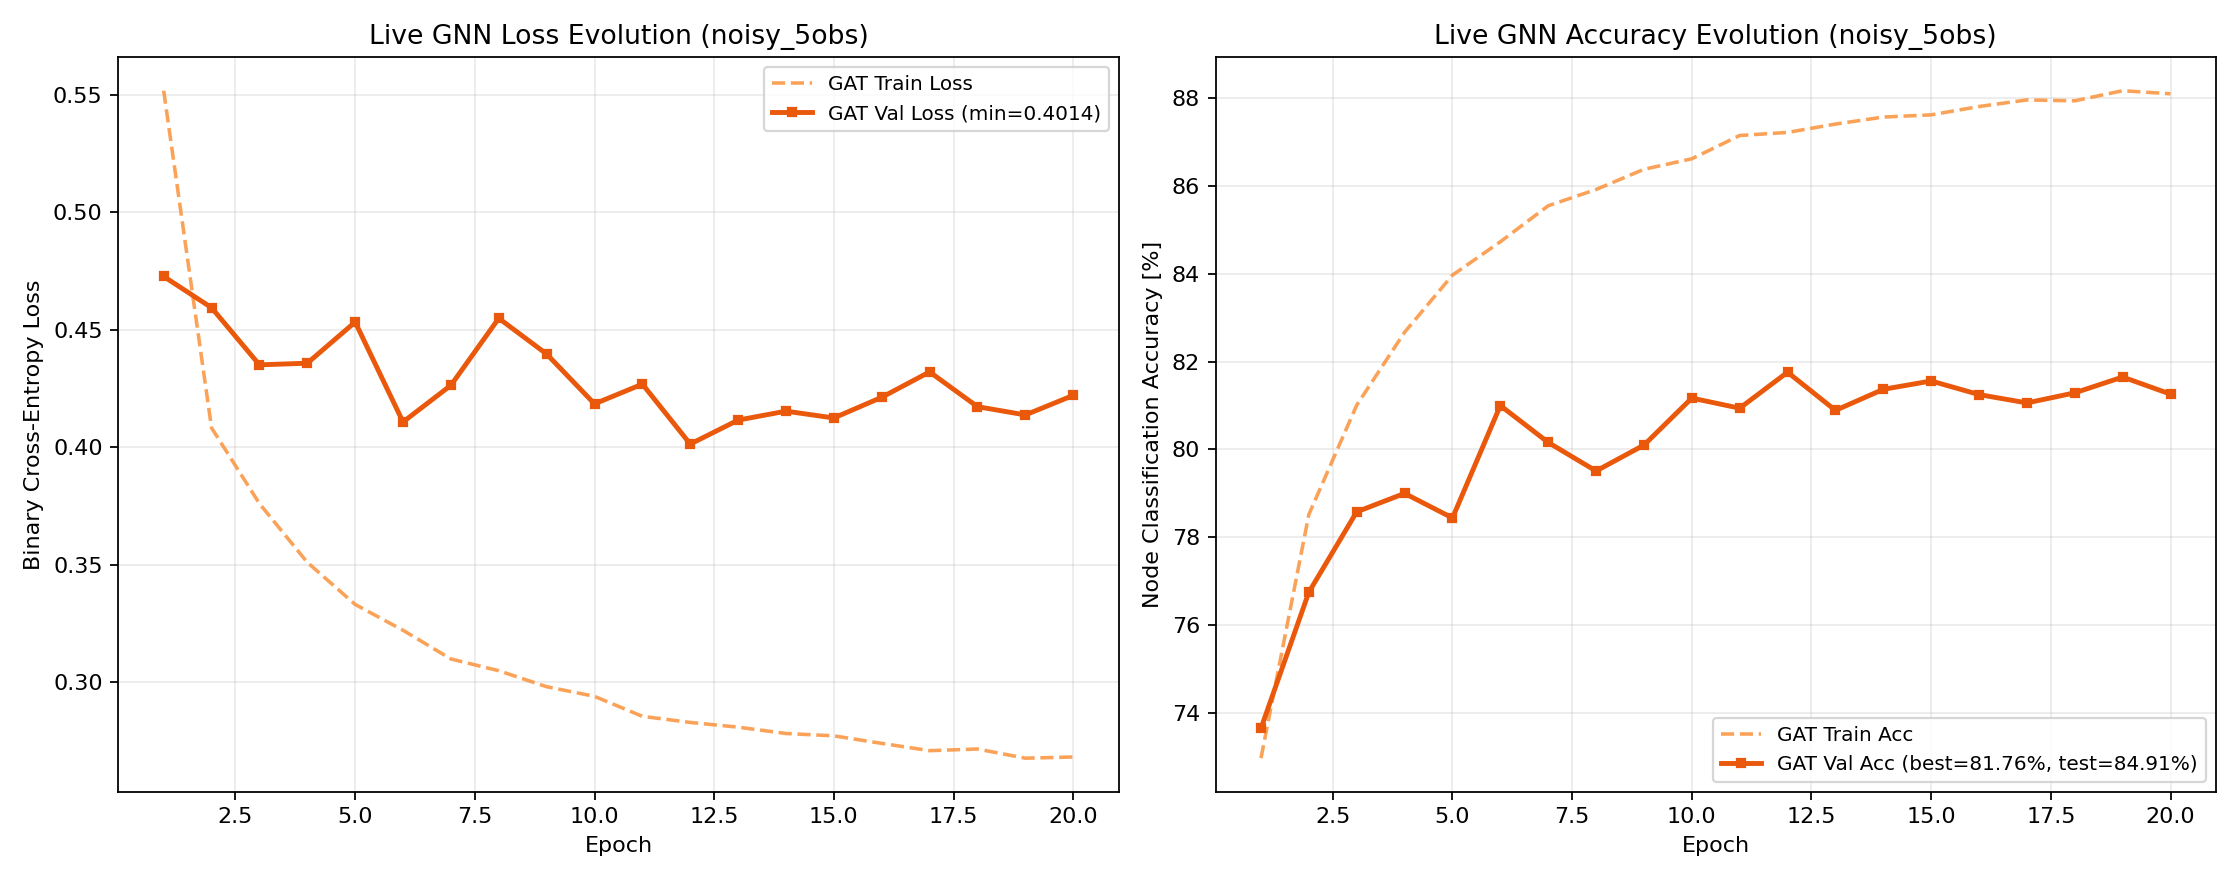
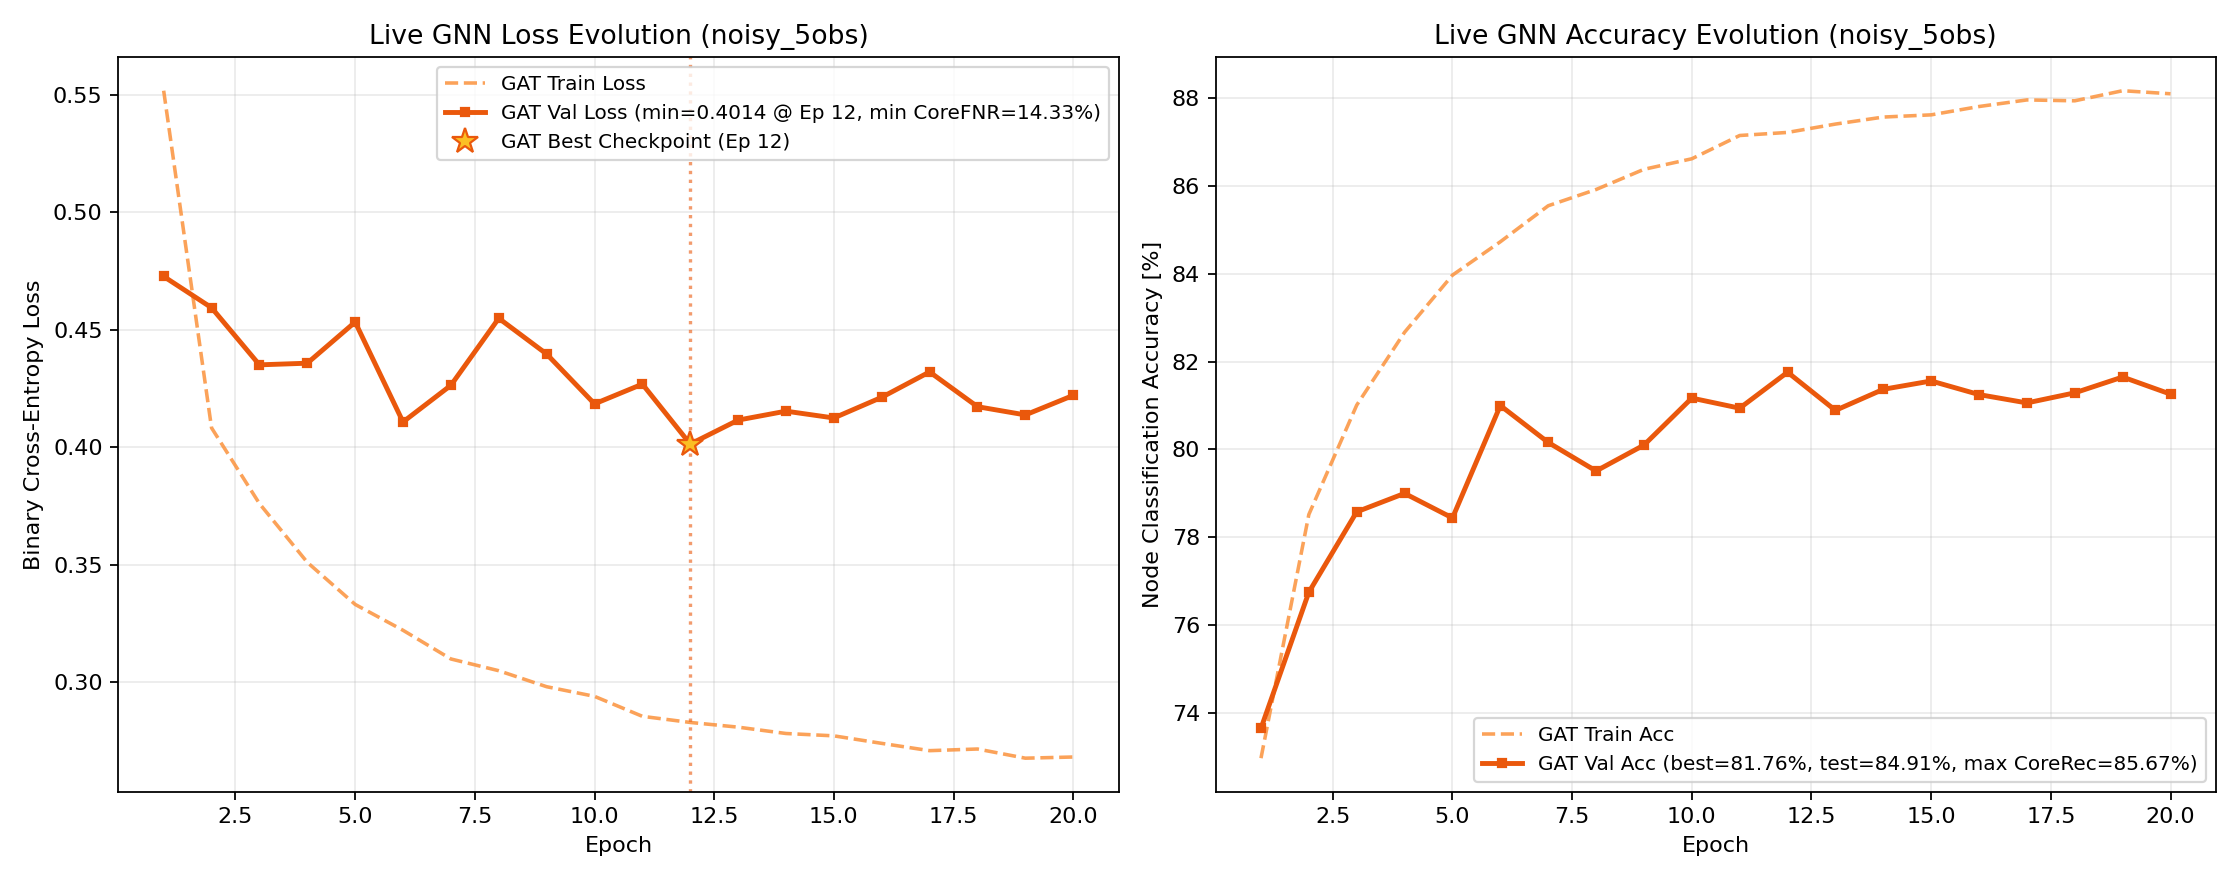
Update Study 2 live status and figures (2026-11-15 13:01)

Changed region(s): [[0.1875, 0.0614, 0.5, 0.1841], [0.6562, 0.7977, 0.9688, 0.8898], [0.2812, 0.4909, 0.3125, 0.5216]]

diff --git a/GNN-jed/trained_models/study2/index.html b/GNN-jed/trained_models/study2/index.html
@@ -229,7 +229,7 @@
   <header>
     <div class="header-top">
       <h1>Study 2 — Index des Entraînements & Analyses GNN (GAT vs GCN)</h1>
-      <span class="timestamp">Dernière mise à jour : 2026-11-15 09:04:00</span>
+      <span class="timestamp">Dernière mise à jour : 2026-11-15 13:01:25</span>
     </div>
     <div class="nav-tabs">
       <button class="tab-btn active" onclick="switchTab('tab-overview', this)">Vue Globale & Spectres RMT</button>
@@ -273,11 +273,11 @@
           </tr>
         </thead>
         <tbody>
-          <tr><td><code>4obs_no_RA_clean</code></td><td><span class='badge badge-gat'>GAT</span></td><td>9</td><td>0.1663</td><td>93.34%</td><td>0.2380</td><td>90.30%</td><td><strong>90.30%</strong></td><td>8.41% (val min)</td><td><span class='status-live'>In progress</span></td><td><strong>-</strong></td></tr>
+          <tr><td><code>4obs_no_RA_clean</code></td><td><span class='badge badge-gat'>GAT</span></td><td>10</td><td>0.1660</td><td>93.36%</td><td>0.2385</td><td>90.24%</td><td><strong>90.30%</strong></td><td>8.41% (val min)</td><td><span class='status-live'>In progress</span></td><td><strong>-</strong></td></tr>
 <tr><td><code>clean_5obs</code></td><td><span class='badge badge-gat'>GAT</span></td><td>20</td><td>0.1006</td><td>96.00%</td><td>0.1495</td><td>94.10%</td><td><strong>94.21%</strong></td><td>6.49% (val: 6.60%)</td><td><span class='status-done'>93.04%</span></td><td><strong>0.9035</strong></td></tr>
 <tr><td><code>clean_5obs</code></td><td><span class='badge badge-gcn'>GCN</span></td><td>25</td><td>0.1136</td><td>95.42%</td><td>0.1820</td><td>92.33%</td><td><strong>92.33%</strong></td><td>-</td><td><span class='status-done'>92.17%</span></td><td><strong>0.8886</strong></td></tr>
 <tr><td><code>noisy_5obs</code></td><td><span class='badge badge-gat'>GAT</span></td><td>20</td><td>0.2683</td><td>88.10%</td><td>0.4221</td><td>81.26%</td><td><strong>81.76%</strong></td><td>19.52% (val: 14.33%)</td><td><span class='status-done'>84.91%</span></td><td><strong>0.7879</strong></td></tr>
-<tr><td><code>4obs_no_RA_clean</code></td><td><span class='badge badge-live'>GAT (In Flight)</span></td><td>Ep 09 (100%)</td><td>0.1864</td><td>-</td><td>-</td><td>-</td><td><strong>-</strong></td><td>-</td><td><span class='status-live'>In progress</span></td><td><strong>-</strong></td></tr>
+<tr><td><code>4obs_no_RA_clean</code></td><td><span class='badge badge-live'>GAT (In Flight)</span></td><td>Ep 10 (100%)</td><td>0.1920</td><td>-</td><td>-</td><td>-</td><td><strong>-</strong></td><td>-</td><td><span class='status-live'>In progress</span></td><td><strong>-</strong></td></tr>
         </tbody>
       </table>
 
@@ -334,17 +334,17 @@
         </tbody>
       </table>
       <h2>État du Pipeline & Queue SLURM sur Jed</h2>
-      <pre class="status-box">[2026-11-15 09:03:59] Study 2 Pipeline Status on Jed
+      <pre class="status-box">[2026-11-15 13:01:24] Study 2 Pipeline Status on Jed
 - Step 1 (Plummer ICs): 81 / 81 ready
 - Step 2 (SWIFT Runs): 81 / 81 completed (101 snapshots)
 - Step 3 (Observables): Labels=81/81 | Clean=81/81 | GaiaNoisy=81/81
 - Step 4 (5D Graphs): Clean=81/81 | GaiaNoisy=81/81
 - Step 5/6 Live GNN Training Progress:
-  * 4obs_no_RA_clean/training_metrics_gat_4obs_no_RA_clean.log: Ep 009 | Train 0.1663 (93.34%) | Val 0.2380 (90.30%, Best=90.30%) | CoreFNR: 11.96% (min=8.41%) | Test=In progress
+  * 4obs_no_RA_clean/training_metrics_gat_4obs_no_RA_clean.log: Ep 010 | Train 0.1660 (93.36%) | Val 0.2385 (90.24%, Best=90.30%) | CoreFNR: 11.31% (min=8.41%) | Test=In progress
   * clean_5obs/training_metrics_gat_clean.log: Ep 020 | Train 0.1006 (96.00%) | Val 0.1495 (94.10%, Best=94.21%) | CoreFNR: 6.64% (min=6.60%) | Test=93.04%
   * clean_5obs/training_metrics_gcn_clean.log: Ep 025 | Train 0.1136 (95.42%) | Val 0.1820 (92.33%, Best=92.33%) | Test=92.17%
   * noisy_5obs/training_metrics_gat_noisy.log: Ep 020 | Train 0.2683 (88.10%) | Val 0.4221 (81.26%, Best=81.76%) | CoreFNR: 23.60% (min=14.33%) | Test=84.91%
-  * [IN FLIGHT] 4obs_no_RA_clean (GAT): Ep 009 | Batch 0103/0103 (100.0%) | Batch Loss 0.1864 | LR: 2.44e-05 | RAM: 1.7G
+  * [IN FLIGHT] 4obs_no_RA_clean (GAT): Ep 010 | Batch 0103/0103 (100.0%) | Batch Loss 0.1920 | LR: 2.00e-04 | RAM: 1.8G
 - Saved Model Checkpoints (.pth): 4 mirrored in GNN-jed/trained_models/study2/weights/
 
 SLURM Queue:
@@ -355,7 +355,7 @@ JOBID  PARTITION                   NAME   ST       TIME  NODES NODELIST(REASON)
       41146836   academic Study2_Step7_GCNStocha   PD       0:00      2 (Dependency)
       41185010   academic Study2V2_Step4_BuildGr   PD       0:00      1 (Dependency)
 41185009_[0-80   academic Study2V2_Step3_Extract   PD       0:00      1 (Dependency)
-    41146835_0   academic      Study2_Step6_4Obs    R   16:06:12      2 jst[292,312]</pre>
+    41146835_0   academic      Study2_Step6_4Obs    R   20:03:54      2 jst[292,312]</pre>
     </section>
   </main>
 

diff --git a/index.html b/index.html
@@ -229,7 +229,7 @@
   <header>
     <div class="header-top">
       <h1>Study 2 — Index des Entraînements & Analyses GNN (GAT vs GCN)</h1>
-      <span class="timestamp">Dernière mise à jour : 2026-11-15 09:04:00</span>
+      <span class="timestamp">Dernière mise à jour : 2026-11-15 13:01:25</span>
     </div>
     <div class="nav-tabs">
       <button class="tab-btn active" onclick="switchTab('tab-overview', this)">Vue Globale & Spectres RMT</button>
@@ -273,11 +273,11 @@
           </tr>
         </thead>
         <tbody>
-          <tr><td><code>4obs_no_RA_clean</code></td><td><span class='badge badge-gat'>GAT</span></td><td>9</td><td>0.1663</td><td>93.34%</td><td>0.2380</td><td>90.30%</td><td><strong>90.30%</strong></td><td>8.41% (val min)</td><td><span class='status-live'>In progress</span></td><td><strong>-</strong></td></tr>
+          <tr><td><code>4obs_no_RA_clean</code></td><td><span class='badge badge-gat'>GAT</span></td><td>10</td><td>0.1660</td><td>93.36%</td><td>0.2385</td><td>90.24%</td><td><strong>90.30%</strong></td><td>8.41% (val min)</td><td><span class='status-live'>In progress</span></td><td><strong>-</strong></td></tr>
 <tr><td><code>clean_5obs</code></td><td><span class='badge badge-gat'>GAT</span></td><td>20</td><td>0.1006</td><td>96.00%</td><td>0.1495</td><td>94.10%</td><td><strong>94.21%</strong></td><td>6.49% (val: 6.60%)</td><td><span class='status-done'>93.04%</span></td><td><strong>0.9035</strong></td></tr>
 <tr><td><code>clean_5obs</code></td><td><span class='badge badge-gcn'>GCN</span></td><td>25</td><td>0.1136</td><td>95.42%</td><td>0.1820</td><td>92.33%</td><td><strong>92.33%</strong></td><td>-</td><td><span class='status-done'>92.17%</span></td><td><strong>0.8886</strong></td></tr>
 <tr><td><code>noisy_5obs</code></td><td><span class='badge badge-gat'>GAT</span></td><td>20</td><td>0.2683</td><td>88.10%</td><td>0.4221</td><td>81.26%</td><td><strong>81.76%</strong></td><td>19.52% (val: 14.33%)</td><td><span class='status-done'>84.91%</span></td><td><strong>0.7879</strong></td></tr>
-<tr><td><code>4obs_no_RA_clean</code></td><td><span class='badge badge-live'>GAT (In Flight)</span></td><td>Ep 09 (100%)</td><td>0.1864</td><td>-</td><td>-</td><td>-</td><td><strong>-</strong></td><td>-</td><td><span class='status-live'>In progress</span></td><td><strong>-</strong></td></tr>
+<tr><td><code>4obs_no_RA_clean</code></td><td><span class='badge badge-live'>GAT (In Flight)</span></td><td>Ep 10 (100%)</td><td>0.1920</td><td>-</td><td>-</td><td>-</td><td><strong>-</strong></td><td>-</td><td><span class='status-live'>In progress</span></td><td><strong>-</strong></td></tr>
         </tbody>
       </table>
 
@@ -334,17 +334,17 @@
         </tbody>
       </table>
       <h2>État du Pipeline & Queue SLURM sur Jed</h2>
-      <pre class="status-box">[2026-11-15 09:03:59] Study 2 Pipeline Status on Jed
+      <pre class="status-box">[2026-11-15 13:01:24] Study 2 Pipeline Status on Jed
 - Step 1 (Plummer ICs): 81 / 81 ready
 - Step 2 (SWIFT Runs): 81 / 81 completed (101 snapshots)
 - Step 3 (Observables): Labels=81/81 | Clean=81/81 | GaiaNoisy=81/81
 - Step 4 (5D Graphs): Clean=81/81 | GaiaNoisy=81/81
 - Step 5/6 Live GNN Training Progress:
-  * 4obs_no_RA_clean/training_metrics_gat_4obs_no_RA_clean.log: Ep 009 | Train 0.1663 (93.34%) | Val 0.2380 (90.30%, Best=90.30%) | CoreFNR: 11.96% (min=8.41%) | Test=In progress
+  * 4obs_no_RA_clean/training_metrics_gat_4obs_no_RA_clean.log: Ep 010 | Train 0.1660 (93.36%) | Val 0.2385 (90.24%, Best=90.30%) | CoreFNR: 11.31% (min=8.41%) | Test=In progress
   * clean_5obs/training_metrics_gat_clean.log: Ep 020 | Train 0.1006 (96.00%) | Val 0.1495 (94.10%, Best=94.21%) | CoreFNR: 6.64% (min=6.60%) | Test=93.04%
   * clean_5obs/training_metrics_gcn_clean.log: Ep 025 | Train 0.1136 (95.42%) | Val 0.1820 (92.33%, Best=92.33%) | Test=92.17%
   * noisy_5obs/training_metrics_gat_noisy.log: Ep 020 | Train 0.2683 (88.10%) | Val 0.4221 (81.26%, Best=81.76%) | CoreFNR: 23.60% (min=14.33%) | Test=84.91%
-  * [IN FLIGHT] 4obs_no_RA_clean (GAT): Ep 009 | Batch 0103/0103 (100.0%) | Batch Loss 0.1864 | LR: 2.44e-05 | RAM: 1.7G
+  * [IN FLIGHT] 4obs_no_RA_clean (GAT): Ep 010 | Batch 0103/0103 (100.0%) | Batch Loss 0.1920 | LR: 2.00e-04 | RAM: 1.8G
 - Saved Model Checkpoints (.pth): 4 mirrored in GNN-jed/trained_models/study2/weights/
 
 SLURM Queue:
@@ -355,7 +355,7 @@ JOBID  PARTITION                   NAME   ST       TIME  NODES NODELIST(REASON)
       41146836   academic Study2_Step7_GCNStocha   PD       0:00      2 (Dependency)
       41185010   academic Study2V2_Step4_BuildGr   PD       0:00      1 (Dependency)
 41185009_[0-80   academic Study2V2_Step3_Extract   PD       0:00      1 (Dependency)
-    41146835_0   academic      Study2_Step6_4Obs    R   16:06:12      2 jst[292,312]</pre>
+    41146835_0   academic      Study2_Step6_4Obs    R   20:03:54      2 jst[292,312]</pre>
     </section>
   </main>
 

diff --git a/LIVE_STATUS.md b/LIVE_STATUS.md
@@ -1,16 +1,18 @@
 # Live Pipeline Status on Jed
 
 ```text
-[2026-11-15 13:00:42] Study 2 Pipeline Status on Jed
+[2026-11-15 13:01:24] Study 2 Pipeline Status on Jed
 - Step 1 (Plummer ICs): 81 / 81 ready
 - Step 2 (SWIFT Runs): 81 / 81 completed (101 snapshots)
 - Step 3 (Observables): Labels=81/81 | Clean=81/81 | GaiaNoisy=81/81
 - Step 4 (5D Graphs): Clean=81/81 | GaiaNoisy=81/81
 - Step 5/6 Live GNN Training Progress:
-  * 4obs_no_RA_clean/training_metrics_gat_4obs_no_RA_clean.log: Ep 010 | Train 0.1660 (93.36%) | Val 0.2385 (90.24%, Best=90.30%) | Test=In progress
-  * clean_5obs/training_metrics_gat_clean.log: Ep 020 | Train 0.1006 (96.00%) | Val 0.1495 (94.10%, Best=94.21%) | Test=93.04%
+  * 4obs_no_RA_clean/training_metrics_gat_4obs_no_RA_clean.log: Ep 010 | Train 0.1660 (93.36%) | Val 0.2385 (90.24%, Best=90.30%) | CoreFNR: 11.31% (min=8.41%) | Test=In progress
+  * clean_5obs/training_metrics_gat_clean.log: Ep 020 | Train 0.1006 (96.00%) | Val 0.1495 (94.10%, Best=94.21%) | CoreFNR: 6.64% (min=6.60%) | Test=93.04%
   * clean_5obs/training_metrics_gcn_clean.log: Ep 025 | Train 0.1136 (95.42%) | Val 0.1820 (92.33%, Best=92.33%) | Test=92.17%
-  * noisy_5obs/training_metrics_gat_noisy.log: Ep 020 | Train 0.2683 (88.10%) | Val 0.4221 (81.26%, Best=81.76%) | Test=84.91%
+  * noisy_5obs/training_metrics_gat_noisy.log: Ep 020 | Train 0.2683 (88.10%) | Val 0.4221 (81.26%, Best=81.76%) | CoreFNR: 23.60% (min=14.33%) | Test=84.91%
+  * [IN FLIGHT] 4obs_no_RA_clean (GAT): Ep 010 | Batch 0103/0103 (100.0%) | Batch Loss 0.1920 | LR: 2.00e-04 | RAM: 1.8G
+- Saved Model Checkpoints (.pth): 4 mirrored in GNN-jed/trained_models/study2/weights/
 
 SLURM Queue:
 JOBID  PARTITION                   NAME   ST       TIME  NODES NODELIST(REASON)
@@ -20,18 +22,40 @@ JOBID  PARTITION                   NAME   ST       TIME  NODES NODELIST(REASON)
       41146836   academic Study2_Step7_GCNStocha   PD       0:00      2 (Dependency)
       41185010   academic Study2V2_Step4_BuildGr   PD       0:00      1 (Dependency)
 41185009_[0-80   academic Study2V2_Step3_Extract   PD       0:00      1 (Dependency)
-    41146835_0   academic      Study2_Step6_4Obs    R   20:05:28      2 jst[292,312]
+    41146835_0   academic      Study2_Step6_4Obs    R   20:03:54      2 jst[292,312]
 ```
 
 ## Live Neural Network Training Metrics
 
-| Experiment | Architecture | Latest Epoch | Train Loss | Train Acc | Val Loss | Val Acc | Best Val Acc | Test Acc | Test F1 |
-| :--- | :---: | :---: | :---: | :---: | :---: | :---: | :---: | :---: | :---: |
-| `4obs_no_RA_clean` | **GAT** | 10 | 0.1660 | 93.36% | 0.2385 | 90.24% | **90.30%** | **In progress** | - |
-| `clean_5obs` | **GAT** | 20 | 0.1006 | 96.00% | 0.1495 | 94.10% | **94.21%** | **93.04%** | 0.9035 |
-| `clean_5obs` | **GCN** | 25 | 0.1136 | 95.42% | 0.1820 | 92.33% | **92.33%** | **92.17%** | 0.8886 |
-| `noisy_5obs` | **GAT** | 20 | 0.2683 | 88.10% | 0.4221 | 81.26% | **81.76%** | **84.91%** | 0.7879 |
+| Experiment | Architecture | Latest Epoch | Train Loss | Train Acc | Val Loss | Val Acc | Best Val Acc | Core FNR | Test Acc | Test F1 |
+| :--- | :---: | :---: | :---: | :---: | :---: | :---: | :---: | :---: | :---: | :---: |
+| `4obs_no_RA_clean` | **GAT** | 10 | 0.1660 | 93.36% | 0.2385 | 90.24% | **90.30%** | 8.41% (val min) | **In progress** | - |
+| `clean_5obs` | **GAT** | 20 | 0.1006 | 96.00% | 0.1495 | 94.10% | **94.21%** | 6.49% (val: 6.60%) | **93.04%** | 0.9035 |
+| `clean_5obs` | **GCN** | 25 | 0.1136 | 95.42% | 0.1820 | 92.33% | **92.33%** | - | **92.17%** | 0.8886 |
+| `noisy_5obs` | **GAT** | 20 | 0.2683 | 88.10% | 0.4221 | 81.26% | **81.76%** | 19.52% (val: 14.33%) | **84.91%** | 0.7879 |
+| `4obs_no_RA_clean` | **GAT (In Flight)** | Ep 10 (100%) | 0.1920 | - | - | - | - | - | **In progress** | - |
+
+## Saved Model Weights (`.pth` Checkpoints)
+
+| Checkpoint | Size | Experiment Path | Central Archive Mirror |
+| :--- | :---: | :--- | :--- |
+| `best_gat_4obs_no_RA_clean.pth` | 357.9 KB | `GNN-jed/trained_models/study2/4obs_no_RA_clean/best_gat_4obs_no_RA_clean.pth` | `GNN-jed/trained_models/study2/weights/best_gat_4obs_no_RA_clean.pth` |
+| `best_gat_clean.pth` | 361.2 KB | `GNN-jed/trained_models/study2/clean_5obs/best_gat_clean.pth` | `GNN-jed/trained_models/study2/weights/best_gat_clean.pth` |
+| `best_gcn_clean.pth` | 120.0 KB | `GNN-jed/trained_models/study2/clean_5obs/best_gcn_clean.pth` | `GNN-jed/trained_models/study2/weights/best_gcn_clean.pth` |
+| `best_gat_noisy.pth` | 361.2 KB | `GNN-jed/trained_models/study2/noisy_5obs/best_gat_noisy.pth` | `GNN-jed/trained_models/study2/weights/best_gat_noisy.pth` |
 
 ## Real-Time GNN Learning Curves (Loss & Accuracy Evolution)
 
 ![Live GNN Training Curves](GNN-jed/trained_models/study2/latest_live_training.png)
+
+## RMT Singular Value Candle Spectra (Marchenko-Pastur Bulk vs Detached Signal)
+
+### `4obs_no_RA_clean`
+![RMT Candle Spectrum 4obs_no_RA_clean](GNN-jed/trained_models/study2/4obs_no_RA_clean/spectral_analysis_GNN_4obs_no_RA_clean.png)
+
+### `clean_5obs`
+![RMT Candle Spectrum clean_5obs](GNN-jed/trained_models/study2/clean_5obs/spectral_analysis_GNN_clean_5obs.png)
+
+### `noisy_5obs`
+![RMT Candle Spectrum noisy_5obs](GNN-jed/trained_models/study2/noisy_5obs/spectral_analysis_GNN_noisy_5obs.png)
+
